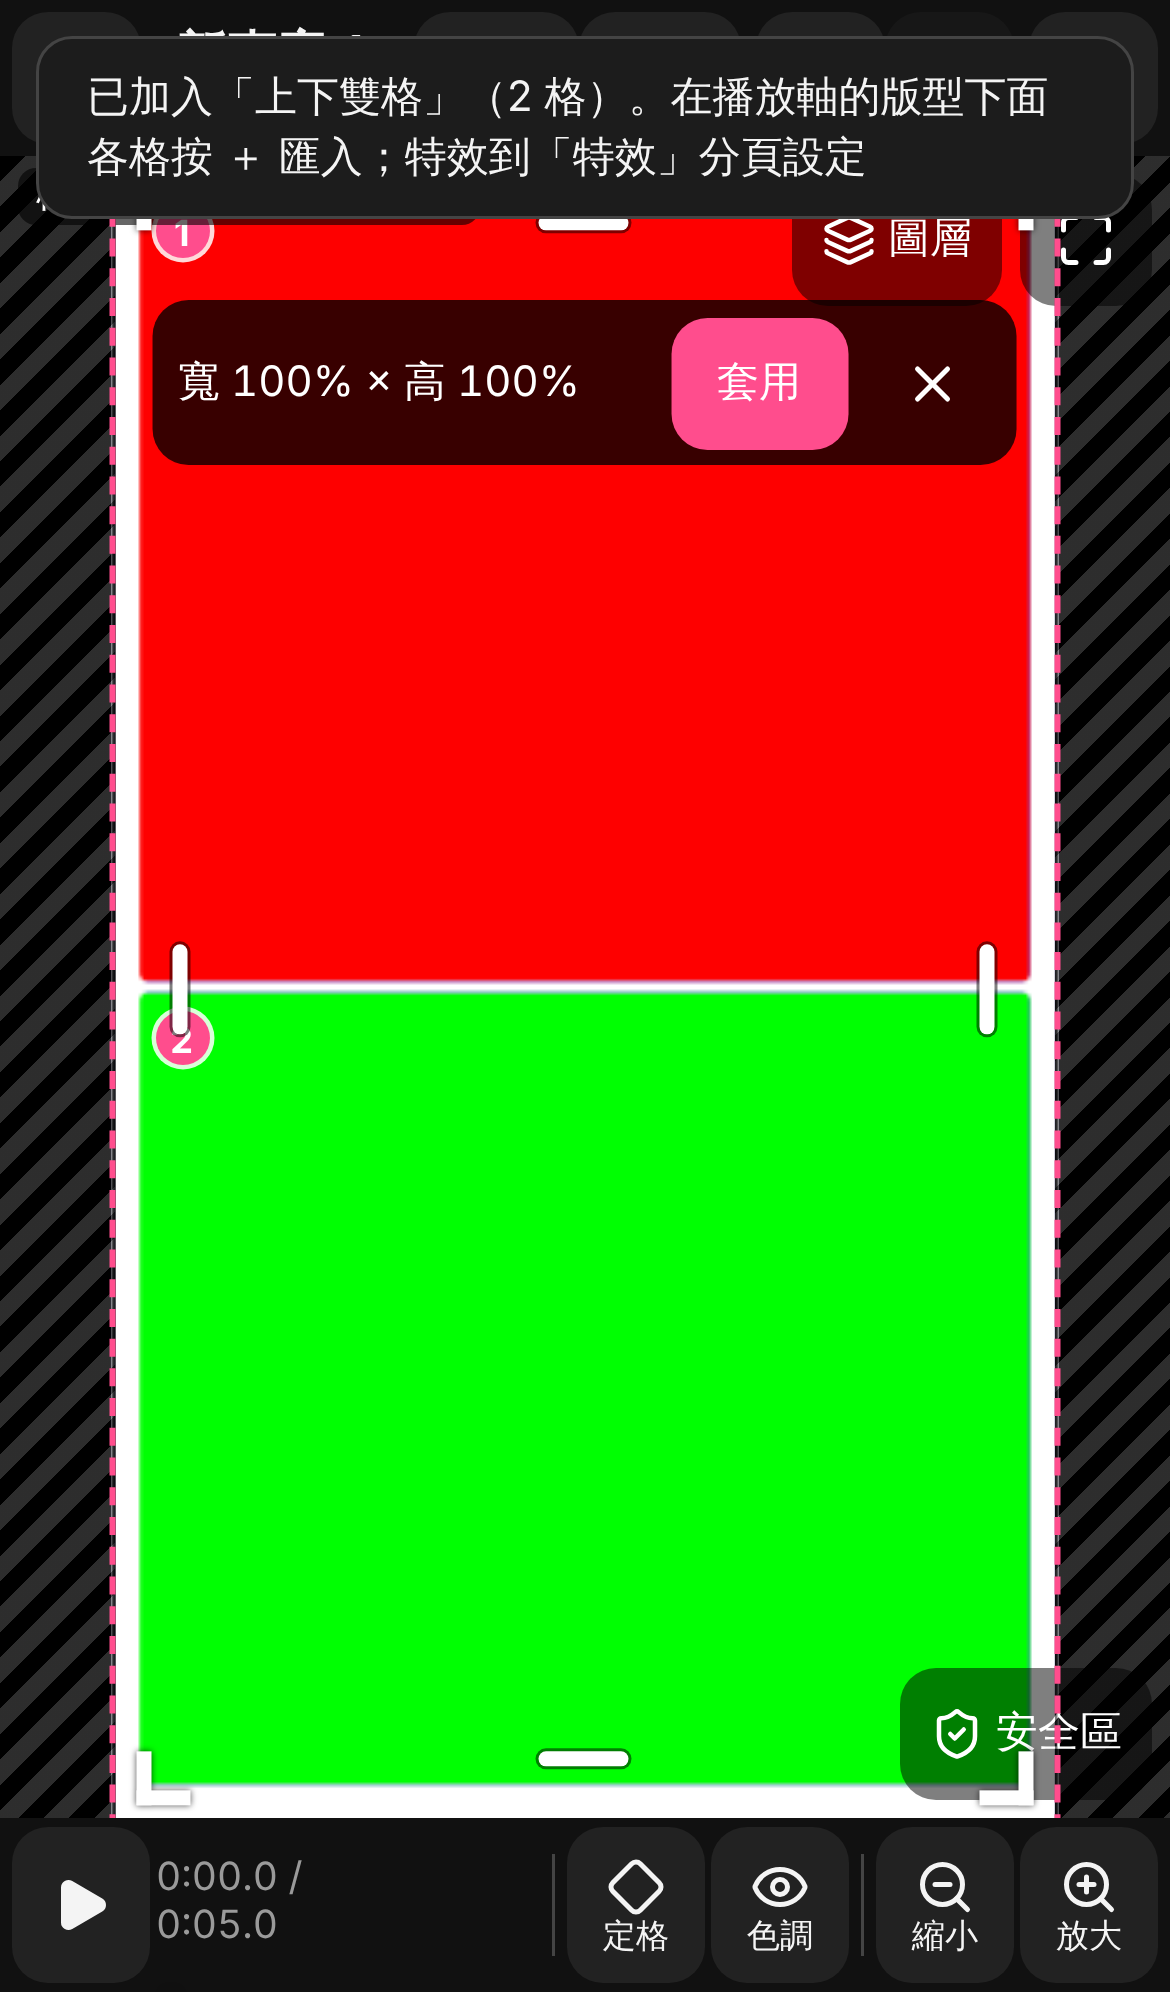
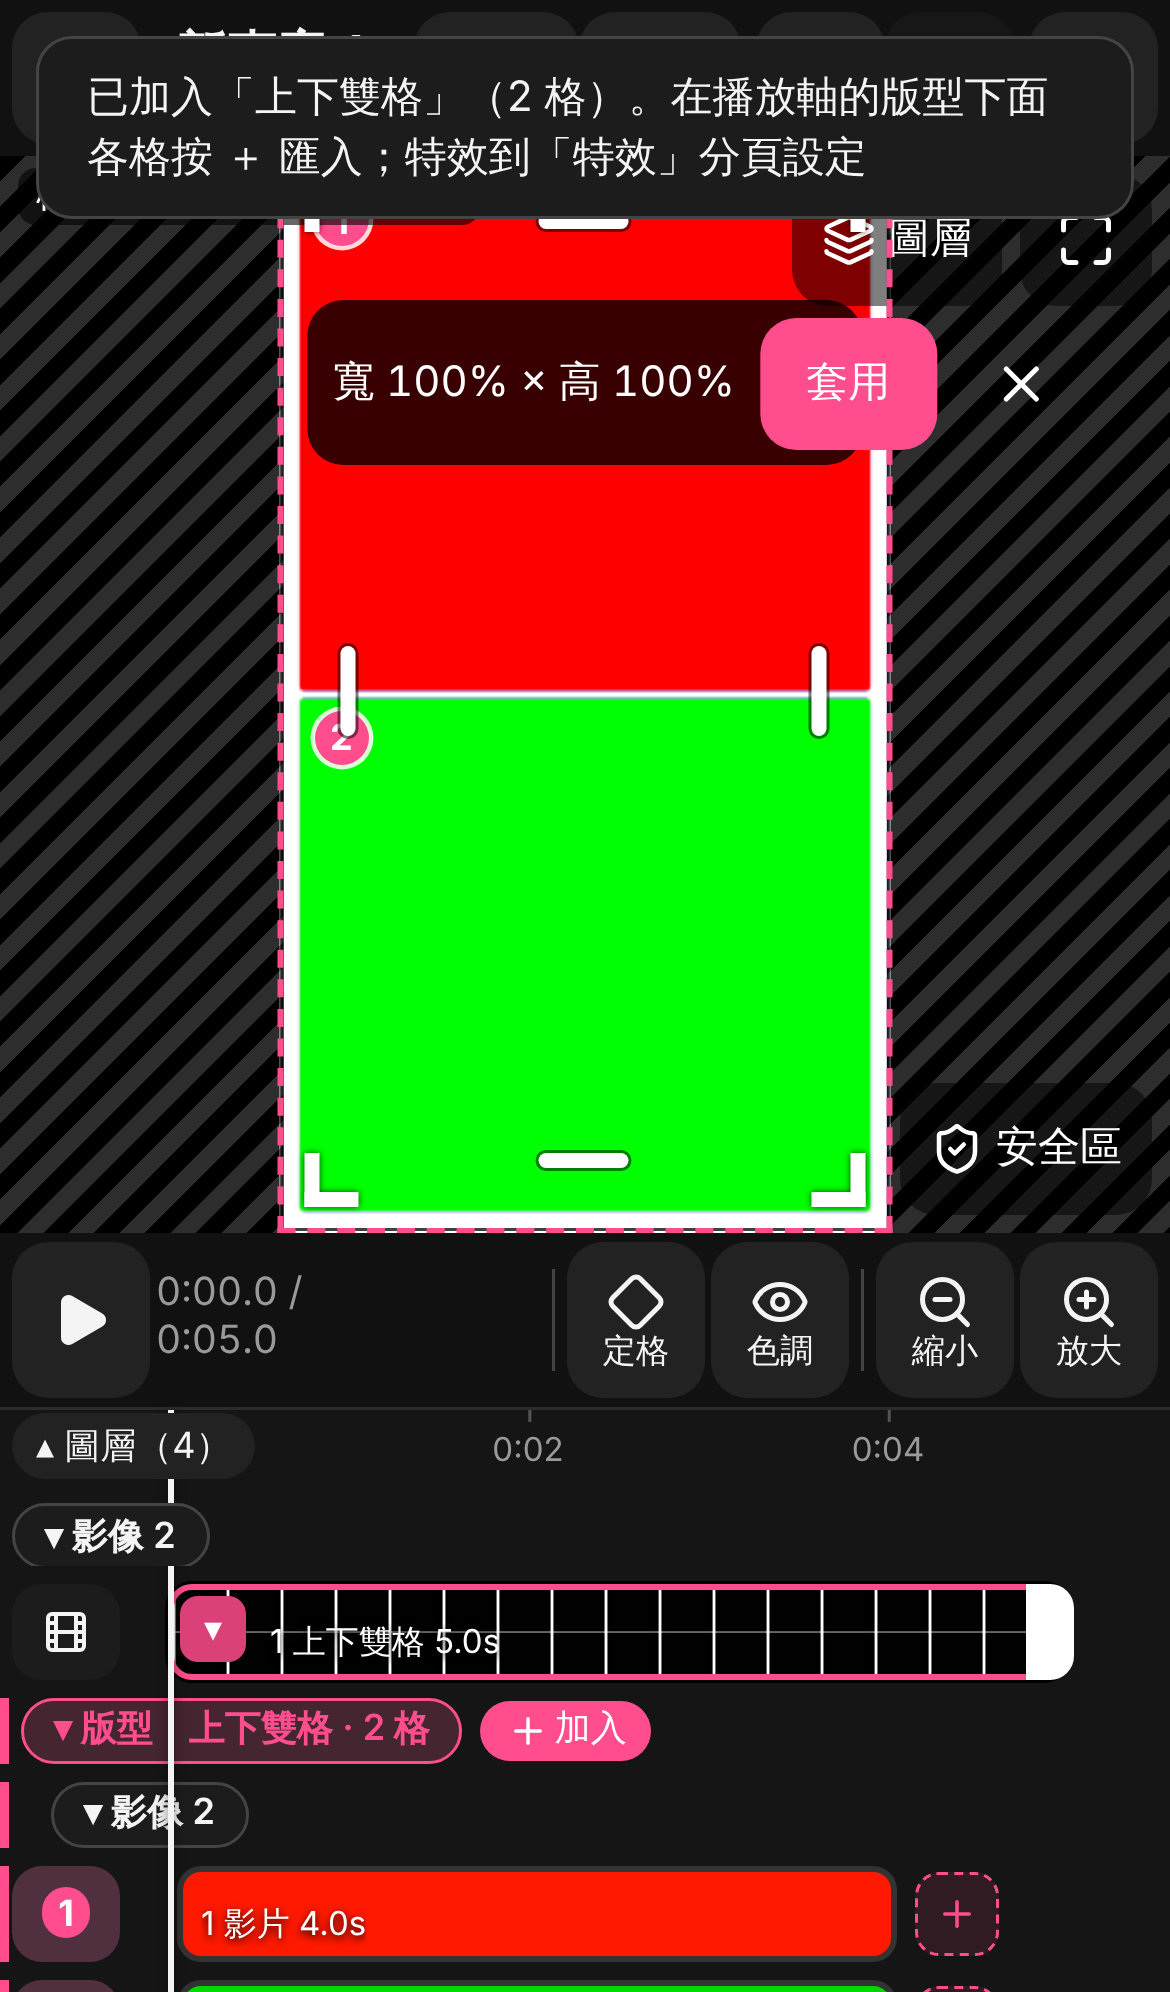
預覽高度適中（約螢幕 54%）、預覽畫布長邊照底計算
- 預覽區高度改成 min(寬×16/9, 螢幕−頂列−播放列, 螢幕×0.54)：預覽適中、功能列離得近（照 VideoClip_2 的比例）
- 預覽畫布長邊 480／960 改成整張底（含版面外面）的長邊，底變寬時版面縮小一點，畫布像素不會比以前多
- 更新 preview-first、phase3a-deco 的測試

Claude-Session: https://claude.ai/code/session_019agY7otd5feanTroznJ55n

diff --git a/src/engine/stage.test.ts b/src/engine/stage.test.ts
@@ -21,3 +21,26 @@ describe('stageLayout', () => {
     expect(l.offY).toBe(0);
   });
 });
+
+describe('預覽底的寬高比', () => {
+  it('previewSizeFor：有給預覽區寬高比時，整張底（含版面外面）的長邊才是 480／960', async () => {
+    const { previewSizeFor } = await import('./previewQuality');
+    // 沒給：版面自己的長邊（舊行為）
+    expect(previewSizeFor({ width: 1080, height: 1920 }, true)).toEqual({ width: 270, height: 480 });
+    // 預覽區比 9:16 寬（0.86）：底 ＝ 高度填滿、寬 1652×1920 → 長邊還是高
+    const a = previewSizeFor({ width: 1080, height: 1920 }, true, 0.86);
+    expect(a.height).toBe(480);
+    // 預覽區比版面「更寬更矮」（1.09）：底的寬比高長 → 長邊是底的寬，版面縮得比較小
+    const b = previewSizeFor({ width: 1080, height: 1920 }, true, 1.09);
+    expect(b.height).toBeLessThan(480);
+    const lay = stageLayout(b.width, b.height, 1.09);
+    expect(Math.max(lay.baseW, lay.baseH)).toBeLessThanOrEqual(481);
+  });
+  it('stageLayout：給預覽區寬高比時，版面在底裡面等比放最大、置中', () => {
+    const l = stageLayout(960, 540, 0.86); // 16:9 的版面放進 0.86 的底：寬度填滿
+    expect(l.baseW).toBe(960);
+    expect(l.baseH).toBe(Math.round(960 / 0.86));
+    expect(l.offX).toBe(0);
+    expect(l.fx).toBe(1);
+  });
+});

diff --git a/src/engine/previewQuality.ts b/src/engine/previewQuality.ts
@@ -1,4 +1,5 @@
 import type { Project } from '../model/types';
+import { stageLayout } from './stage';
 
 // 預覽畫質：清楚（長邊 960）／流暢（長邊 480，手機畫面小，肉眼差不多）／自動。
 // 只影響預覽用的合成畫布；匯出走自己的合成器與輸出解析度，完全不受影響。
@@ -49,11 +50,17 @@ export function useSmooth(q: PreviewQuality, p: Project, slow: boolean): boolean
   return slow || maxVideoOverlap(p) >= 3;
 }
 
-/** 預覽合成畫布的大小（長邊 960，流暢＝480） */
+/**
+ * 預覽「版面」的大小（專案縮小成這樣來合成）：整張畫布（底，含版面外面）的長邊 960，流暢＝480。
+ * 有給 aspect（預覽區的寬高比）才把底算進去；沒給就只看版面本身的長邊。
+ */
 export function previewSizeFor(
   p: Pick<Project, 'width' | 'height'>,
   smooth: boolean,
+  aspect?: number,
 ): { width: number; height: number } {
-  const k = (smooth ? 480 : 960) / Math.max(p.width, p.height);
+  const lay = aspect ? stageLayout(p.width, p.height, aspect) : null;
+  const long = lay ? Math.max(lay.baseW, lay.baseH) : Math.max(p.width, p.height);
+  const k = (smooth ? 480 : 960) / long;
   return { width: Math.round(p.width * k), height: Math.round(p.height * k) };
 }

diff --git a/src/app/styles.css b/src/app/styles.css
@@ -518,8 +518,12 @@ button {
 }
 .stage-wrap {
   position: relative;
-  /* 預覽的底＝預覽區整塊（不管專案比例；版面在裡面等比放到最大）：預覽和下面的播放列、時間軸位置才不會跳。高度最高＝一個螢幕扣掉頂列與播放列。用 svh：Safari 網址列伸縮時不會抖 */
-  height: max(300px, min(calc(100vw * 16 / 9), calc(100svh - var(--top-h) - var(--playbar-h))));
+  /* 預覽的底＝預覽區整塊（不管專案比例；版面在裡面等比放到最大）：預覽和下面的播放列、時間軸位置才不會跳。
+     高度適中（約螢幕的 54%，使用者參考 VideoClip_2）：預覽不會過大，往下就是播放列、時間軸、功能列，不用滑很遠。用 svh：Safari 網址列伸縮時不會抖 */
+  height: max(
+    300px,
+    min(calc(100vw * 16 / 9), calc(100svh - var(--top-h) - var(--playbar-h)), calc(100svh * 0.54))
+  );
   display: flex;
   align-items: center;
   justify-content: center;

diff --git a/src/engine/player.ts b/src/engine/player.ts
@@ -48,8 +48,9 @@ export { driftPlan };
 export function previewSize(
   p: Pick<Project, 'width' | 'height'>,
   smooth = false,
+  aspect?: number,
 ): { width: number; height: number } {
-  return previewSizeFor(p, smooth);
+  return previewSizeFor(p, smooth, aspect);
 }
 
 /**
@@ -115,7 +116,7 @@ export class Player {
     opts: { host: HTMLElement; canvas: HTMLCanvasElement; aspect?: number } & Deps,
   ): Promise<Player> {
     const p = opts.getProject();
-    const size = p ? previewSize(p, opts.smooth) : { width: 540, height: 960 };
+    const size = p ? previewSize(p, opts.smooth, opts.aspect) : { width: 540, height: 960 };
     const lay = stageLayout(size.width, size.height, opts.aspect);
     const compositor = await Compositor.create({
       ...size,

diff --git a/docs/PROGRESS.md b/docs/PROGRESS.md
@@ -91,7 +91,7 @@
 ## 日誌（最新在最上面）
 - 2026-11-21 feedback-14：版型殘影、版型大小按鈕、筆刷視圖、副標、停在最後畫面、斜線、進專案捲到最上（Sonnet）
   - 做了什麼：①**拖邊調整整體大小／拖各格大小後，舊版型還留在底下、兩個疊在一起**：根因是 compositor 畫圖片用的 `frameCanvas` 重畫時沒先清掉，外框圖（有透明區）換成新的以後舊圖還在底下；重畫前先 `clearRect`（重新進專案才正常＝畫布重建）。②版型分頁「大小與格數」：分成「整個版型」（顯示現在 % × %、［調整整體大小］［重置］）和「各格」（［調整各格大小］［重置］）兩組，組間有空隙，名稱講清楚是外框整體還是各格。③調整版型大小的「寬 × 高、套用、✕」改成一排小條，放在框上面／下面放得下的地方（占滿畫面時放在上邊把手下面），不再蓋住兩格中間的左右把手。④特效分頁「作用在」五個按鈕照字長分寬（「文字特效」不被切掉）、選了特效不再把名字接在後面。⑤裁切：筆刷、橡皮擦時畫面就是「檢查結果」的樣子（去掉的地方是棋盤格、沒有粉紅框線），直接在上面刷；切回自由／一般才看得到框線。⑥動態字卡 `kinetic.sub` 副標（巨字橫移的底帶小字、環繞的圈上字、標題輪替的標籤；空白＝照原來的）、`kinetic.end`（loop 重複播放／hold 停在最後畫面：播到最後一個詞「字完整呈現」那一刻就停，不消失；一直在跑的跑馬燈類沒有這個選項）；停點表 `engine/kinetic/hold.ts`（每一式一輪的比例，`KINETIC_HOLD=1` 的 e2e 量墨量當起點、再手動修正）。⑦預覽斜線只蓋「底裡面、版面外面」，底左右兩側的黑邊不再蓋斜線；進專案、重新整理一律捲到最上面。⑧轉場卡：從螢幕錄影量到轉場中間有 ~0.1 秒停格（B 影片還沒開始送畫面），把轉場前的暖機提早到 0.8 秒（原 0.4）；真機是否改善要使用者回報。
-  - 預覽改成使用者 VideoClip_2 截圖的樣子（使用者指定）：預覽區（寬 × 固定高度）整塊就是「底」，專案版面在裡面等比放到最大、置中，其餘全部蓋斜線（16:9 橫的占滿寬度、上下斜線；9:16 直的左右斜線）。底的寬高比＝預覽區現在的寬 ÷ 高（`Preview` 量到後 `setBaseAspect`＋傳給 `Player.create`，寬高比變了才重建引擎），不再是固定 9:16；`stageLayout(w,h,aspect)`、自訂比例的 `AspectOverlay` 都改用它。預覽區高度公式沒變（改比例時播放列不跳）。取代前面「左右黑邊不蓋斜線」的做法。
+  - 預覽改成使用者 VideoClip_2 截圖的樣子（使用者指定）：預覽區（寬 × 固定高度）整塊就是「底」，專案版面在裡面等比放到最大、置中，其餘全部蓋斜線（16:9 橫的占滿寬度、上下斜線；9:16 直的左右斜線）。底的寬高比＝預覽區現在的寬 ÷ 高（`Preview` 量到後 `setBaseAspect`＋傳給 `Player.create`，寬高比變了才重建引擎），不再是固定 9:16；`stageLayout(w,h,aspect)`、自訂比例的 `AspectOverlay` 都改用它。預覽區高度改成約螢幕的 54%（使用者說參考圖的大小「適中、沒有多餘空間」；原本幾乎占滿一個螢幕，功能列離很遠）：`min(寬×16/9, 螢幕−頂列−播放列, 螢幕×0.54)`，同一支手機上固定不變（改比例時播放列不跳）。取代前面「左右黑邊不蓋斜線」的做法。
   - 要回報：轉場卡只能靠真機的效能框數字確認；底變寬後 Pixi 畫布比以前大（9:16 專案約 +50% 像素），若預覽變卡要回報。
   - 動了哪些檔：`engine/{compositor,player,stage}.ts`、`engine/kinetic/{core,render,hold,fx/flow,fx/sp,fx/swap}.ts`、`engine/debug.ts`、`model/types.ts`、`store/actions.ts`、`app/pages/Editor.tsx`、`app/editor/{CropEditor,LayoutResize,Preview,AspectOverlay}.tsx`、`app/editor/tabs/{LayoutTab,EffectTab}.tsx`、`app/styles.css`、測試 `kinetic.test.ts`、`e2e/{feedback14,kinetic-hold,i6,y3,x4}.spec.ts`
   - 驗證：✅ `npm run check`、完整 e2e（見下）
